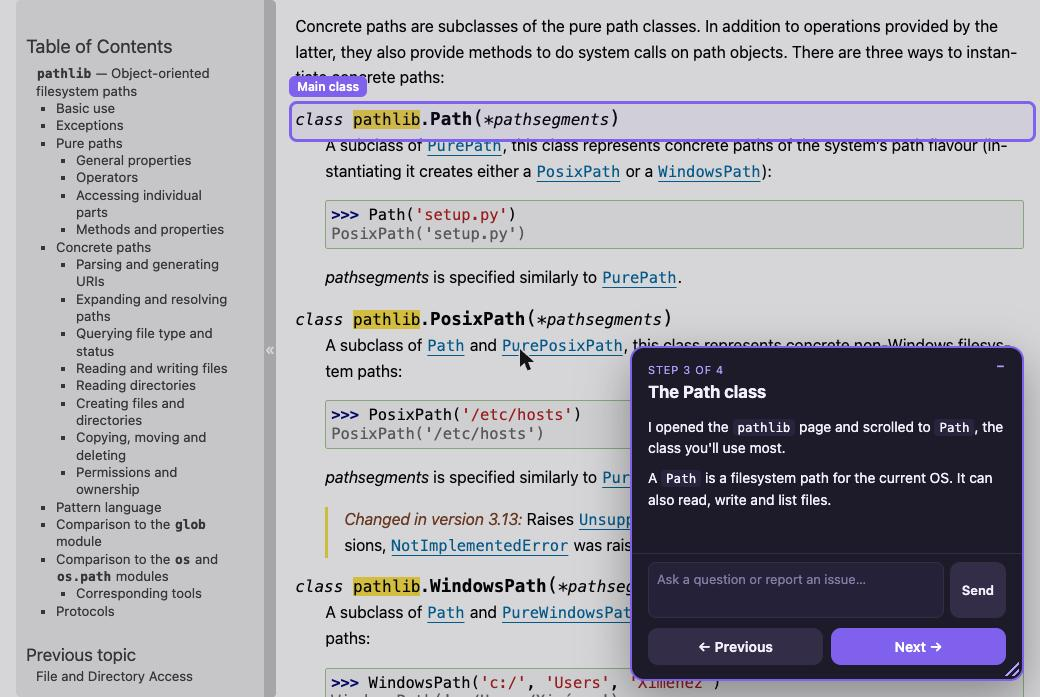
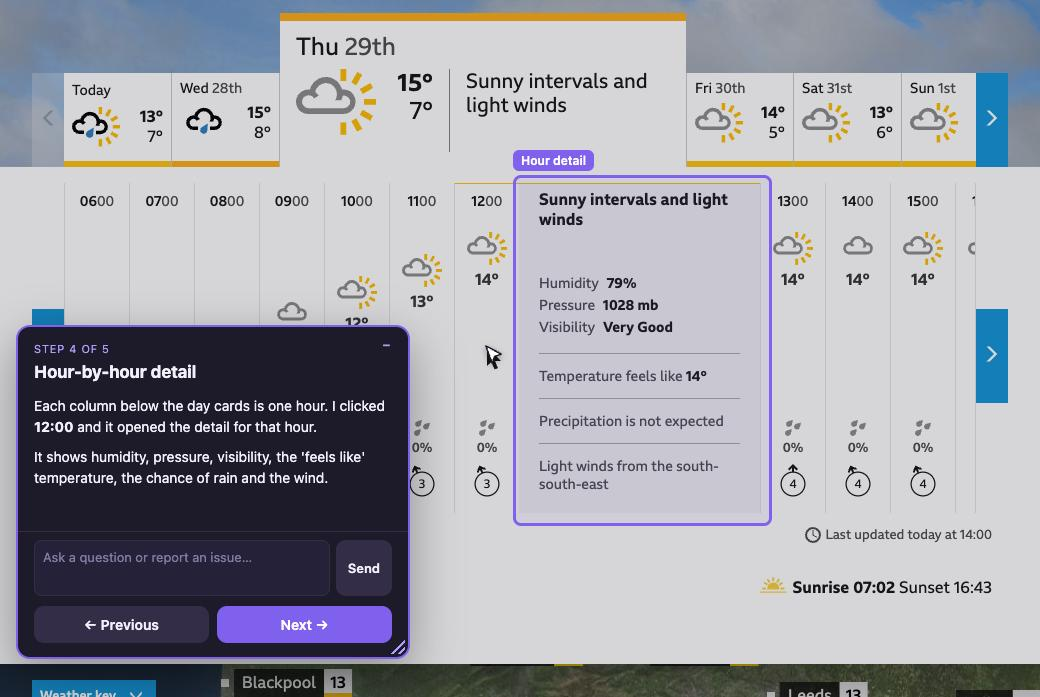
fixup! docs(claude): add guided-web-walkthrough README with demo GIF and screenshot

diff --git a/.claude/skills/guided-web-walkthrough/README.md b/.claude/skills/guided-web-walkthrough/README.md
@@ -2,7 +2,7 @@
 
 A Claude Code skill that walks you through a website in your own Chrome. Claude drives the site (real clicks and typing) and explains each step in a small panel on the page. You set the pace with **Next** / **Previous**, and you can type questions into the panel at any time.
 
-![Demo: a walkthrough of the Python docs](assets/demo.gif)
+![Demo: Claude explains how to use BBC Weather: search for a place, switch days, open an hour, answer a question](assets/demo.gif)
 
 ## What it is for
 
@@ -27,12 +27,24 @@ The panel sends each click and message to the relay, and the relay prints it as 
 - `SKILL.md`: the instructions Claude follows.
 - `guide-panel.js`: the panel. It works on any site; Claude passes in each step's content. The API is at the top of the file.
 - `guide-relay.py`: the event relay (Python standard library only).
+- `tests/panel-overlap.html`: browser test that the panel never covers a highlighted element.
 
 ## Use it
 
 Ask Claude something like:
 
 - "Walk me through the changes on this branch in the app."
-- "Give me a tour of docs.python.org."
+- "Explain how to use bbc.co.uk/weather."
 
 Requires the Claude in Chrome extension. On sites you don't own, Claude asks before it creates, changes, sends, buys or deletes anything. You type credentials and payment details yourself.
+
+## Test
+
+The test needs a real browser, because it relies on smooth scrolling:
+
+```sh
+python3 -m http.server -d ~/.claude/skills/guided-web-walkthrough 8000
+open http://127.0.0.1:8000/tests/panel-overlap.html
+```
+
+The page shows `RESULT: PASS` or `RESULT: FAIL`, with one line per case.
